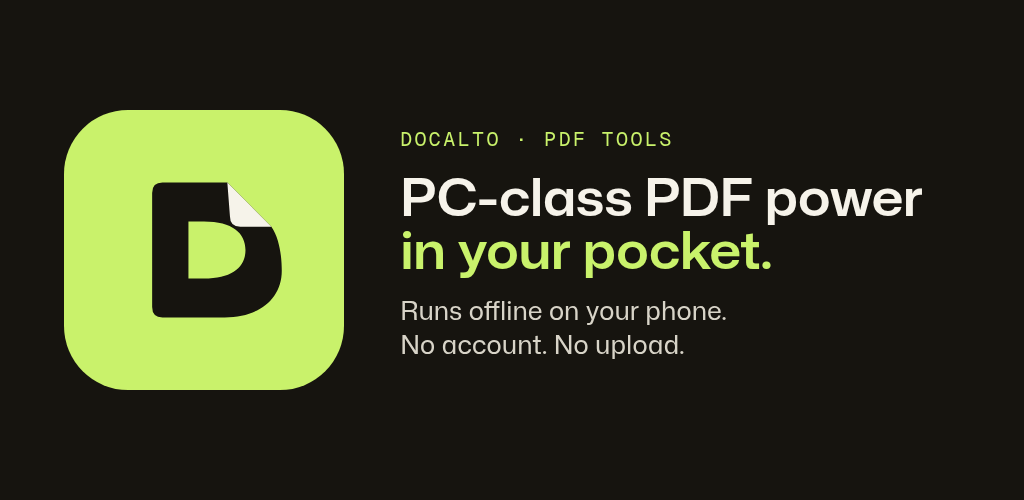
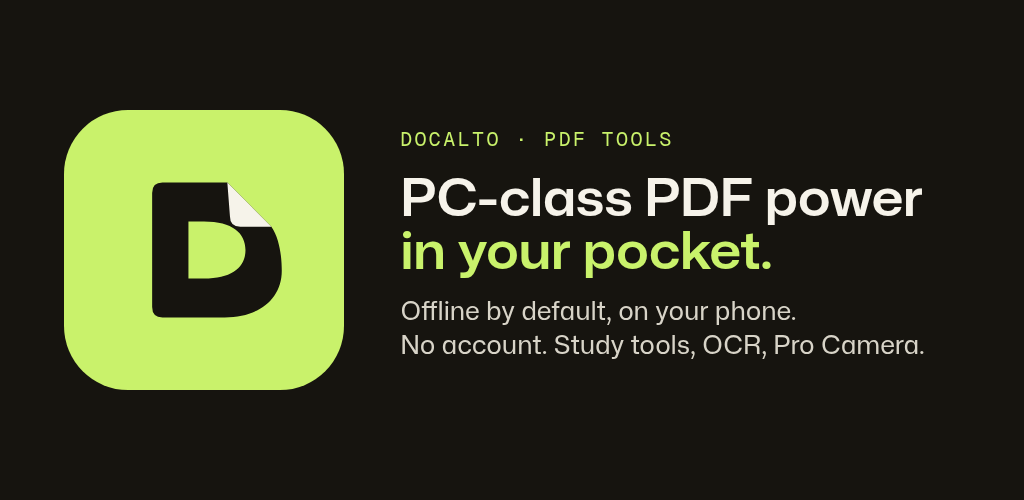
Docalto 2.1.0: release notes, changelog, README with online and AI section, new screenshots

Changed region(s): [[0.375, 0.6, 0.9062, 0.72]]

diff --git a/README.md b/README.md
@@ -5,7 +5,7 @@
 <h1 align="center">Docalto</h1>
 
 <p align="center">
-  <b>PC-class PDF tools in one Android app. Offline on your phone, no account, no upload.</b><br>
+  <b>PC-class PDF tools in one Android app. Offline on your phone by default, no account.</b><br>
   Read, edit, sign, scan, compress and convert PDFs and Office files. By <a href="https://github.com/1tordroid">Tordroid</a>.
 </p>
 
@@ -31,13 +31,13 @@
   <img src="assets/feature-graphic.png" width="820" alt="Docalto feature graphic">
 </p>
 
-Docalto puts your everyday document jobs in one fast app: read, edit, sign, scan, compress, merge, split and convert PDFs, and open Word, Excel and PowerPoint files too. Your documents are handled on your phone, not uploaded. There is no account. Most tools are free; a few use one short ad, and Premium removes the ads and the daily limit. While Docalto is in testing, PRO tools are free to use.
+Docalto puts your everyday document jobs in one fast app: read, edit, sign, scan, compress, merge, split and convert PDFs, and open Word, Excel and PowerPoint files too. Your documents are handled on your phone and not uploaded unless you turn on an online feature. There is no account. Most tools are free; a few use one short ad, and Premium removes the ads and the daily limit. While Docalto is in testing, PRO tools are free to use.
 
 > This repository holds Docalto's release notes, changelog and screenshots. It has **no source code and no APK**. Docalto is available only from Google Play.
 
 ## Why Docalto
 
-**PC-class PDF tools in one Android app, running offline on the phone with no account and no upload, which very few apps offer.**
+**PC-class PDF tools in one Android app, running offline on the phone by default with no account, which very few apps offer.**
 
 Many PDF websites upload your file to merge, split, compress or convert it. Many desktop programs already do those jobs offline on a computer. Docalto runs that kind of toolkit on an Android phone, on the device.
 
@@ -46,8 +46,26 @@ Many PDF websites upload your file to merge, split, compress or convert it. Many
 - **File Rescue** and a wide image-format list (RAW previews, Photoshop, JPEG XL, TIFF and older formats).
 - **Offline signature checks** against India's CCA roots, including many Aadhaar PDFs.
 - **On-device AI:** Gemini Nano summaries and answers when the model is on the phone, with a built-in fallback on every other phone.
+- **New in 2.1.0:** Study tools (flashcards, quiz and outline from a PDF), text reading for 11 more languages such as Arabic, Urdu, Bengali, Tamil, Telugu and Russian, and a Pro Camera with Macro and Night.
+
+### Online and AI, honestly
+
+- **Offline:** every tool, text reading, summaries (Gemini Nano, or key sentences on other phones), Ask this PDF, Study tools and signatures.
+- **With your own AI key** (Gemini, Grok, Claude or ChatGPT) and online turned on: chat with PDF, online summary, rewrite, translation and page text reading. Docalto asks before the first use.
+- **Coming soon** (needs a Docalto server): exact Office layout, sign by link, review by link, and online AI without your own key.
 
 Full, sourced comparison (as of November 2026): [COMPARISON.md](COMPARISON.md). Docalto has no iOS or desktop app and no cloud sync, and it does not replace a desktop suite like PDF24 Creator or a self-hosted Stirling PDF.
+
+## New in 2.1.0
+
+- **Seven colour themes**, and **Recent** at the bottom of Home with View more. Settings is one tap away on every tab.
+- **Study tools:** flashcards, a quiz and an outline made on the phone from a PDF.
+- **Text reading for 11 more languages**, including Arabic, Urdu, Bengali, Tamil, Telugu and Russian, after a one-time download.
+- **Pro Camera** with Macro, Night and adjustable corners.
+- **Measure, Reading view, fillable forms, Pictures in PDF, Web page to PDF**, a visual Compare report and review file (XFDF) import.
+- **PDF to Word, Excel and PowerPoint** export every page.
+- Root or hook frameworks on the phone no longer stop the app; only tampering with Docalto does.
+- What's new and Why Docalto in all 15 app languages.
 
 ## New in 2.0.1
 
@@ -103,6 +121,26 @@ All versions: [CHANGELOG.md](CHANGELOG.md) · [Releases](https://github.com/1tor
 
 ## Screenshots
 
+Docalto 2.1.0
+
+<p align="center">
+  <img src="assets/screenshots/2.1.0/home.png" width="200" alt="Home">
+  <img src="assets/screenshots/2.1.0/recent.png" width="200" alt="Recent files at the bottom of Home, with View more">
+  <img src="assets/screenshots/2.1.0/study.png" width="200" alt="Study tools: flashcards">
+  <img src="assets/screenshots/2.1.0/ocr.png" width="200" alt="Text reading in more scripts">
+</p>
+
+<p align="center">
+  <img src="assets/screenshots/2.1.0/camera.png" width="200" alt="Pro Camera with Macro and Night">
+  <img src="assets/screenshots/2.1.0/themes.png" width="200" alt="Colour themes">
+  <img src="assets/screenshots/2.1.0/why.png" width="200" alt="Why choose Docalto">
+  <img src="assets/screenshots/2.1.0/why-ai.png" width="200" alt="Online and AI, honestly">
+  <img src="assets/screenshots/2.1.0/whatsnew.png" width="200" alt="What's new in 2.1.0">
+</p>
+
+<details>
+<summary>Docalto 2.0.1 screenshots</summary>
+
 Light theme
 
 <p align="center">
@@ -134,9 +172,13 @@ Light theme
 
 <sub>Screenshots of Docalto 2.0.1 from Google Play, taken on a OnePlus 12: Home, Scan, the next steps after a scan, Edit PDF, the QR link prompt, All Tools, What's new, Settings and About.</sub>
 
+</details>
+
+<sub>2.1.0 screenshots were taken on a OnePlus 12. The Pro Camera picture is the app's camera screen drawn over a sample invoice.</sub>
+
 ## Get Docalto
 
-Docalto **2.0.1** is in **closed testing on Google Play** and will be open to everyone soon. It is distributed only through Google Play; there is no APK download.
+Docalto **2.1.0** is in **internal and closed testing on Google Play** and will be open to everyone soon. It is distributed only through Google Play; there is no APK download.
 
 ### Join testing
 
@@ -147,7 +189,7 @@ Requires Android 8.0 or later.
 
 ## Privacy
 
-Viewing, editing, converting, scanning, OCR and translation run on the device. Docalto never uploads, shares or collects your documents, and there is no account. The free version shows Google AdMob ads, which may collect device data; Premium has no ads. Full details: [privacy policy](https://docalto.tordroid.com/privacy/) · [terms](https://docalto.tordroid.com/terms/) · [SECURITY.md](SECURITY.md).
+Viewing, editing, converting, scanning, OCR and translation run on the device. Docalto does not upload, share or collect your documents unless you turn on an online feature and agree, and there is no account. The free version shows Google AdMob ads, which may collect device data; Premium has no ads. Full details: [privacy policy](https://docalto.tordroid.com/privacy/) · [terms](https://docalto.tordroid.com/terms/) · [SECURITY.md](SECURITY.md).
 
 ## Support
 

diff --git a/CHANGELOG.md b/CHANGELOG.md
@@ -1,6 +1,30 @@
 # Changelog
 
-All user-facing changes to Docalto, newest first. Docalto is in closed testing on Google Play. Per-version notes are in [release-notes/](release-notes/) and on the [Releases](https://github.com/1tordroid/Docalto-Releases/releases) page. The changelog is also on the website: https://docalto.tordroid.com/changelog/
+All user-facing changes to Docalto, newest first. Docalto is in testing on Google Play. Per-version notes are in [release-notes/](release-notes/) and on the [Releases](https://github.com/1tordroid/Docalto-Releases/releases) page. The changelog is also on the website: https://docalto.tordroid.com/changelog/
+
+## 2.1.0
+
+versionCode 12. Released 24 November 2026 to internal and closed testing on Google Play.
+
+### What's new
+
+- **Seven colour themes:** Lime, Ocean, Rose, Amber, Violet, Mint and Coral, in Settings next to the app icon.
+- **Recent on Home:** your last 3 files at the bottom of Home, with View more. Settings is one tap away on every tab.
+- **Study tools:** flashcards, a quiz and an outline map made on the phone from a PDF's own text, with Save study notes.
+- **More reading scripts:** text reading for Arabic, Urdu, Bengali, Tamil, Telugu, Gujarati, Punjabi, Kannada, Malayalam, Odia and Russian. Each is a one-time download after you agree, then works offline.
+- **Pro Camera:** Macro, Night and adjustable corners, plus Scanner Enhance.
+- **New tools:** Measure (distance, area and perimeter at a drawing scale), Reading view, Make a fillable form, Pictures in PDF, Web page to PDF, a visual change report in Compare, and review file (XFDF) import.
+- **Office export:** PDF to Word, Excel and PowerPoint now export every page.
+- **Fewer false blocks:** root, LSPosed or Xposed on the phone no longer stop the app; only tampering with Docalto itself does.
+- **Your language:** What's new shows translated highlights in all 15 app languages, and Why Docalto has new rows and an online and AI section in every language.
+
+### Online and AI, honestly
+
+- **Offline:** every tool, text reading, summaries (Gemini Nano on phones that have it, key sentences on others), Ask this PDF, Study tools and signatures.
+- **With your own AI key** (Gemini, Grok, Claude or ChatGPT) and online turned on: chat with PDF, online summary, rewrite, translation and page text reading. Docalto asks before the first use; the key is encrypted on the phone and never backed up.
+- **Coming soon** (needs a Docalto server): exact Office layout, sign by link, review by link, and online AI without your own key. These are marked Coming soon in the app and do nothing online.
+
+Full list: https://docalto.tordroid.com/changelog/#v2-1-0
 
 ## 2.0.1
 

diff --git a/release-notes/v2.1.0.md b/release-notes/v2.1.0.md
@@ -1,0 +1,23 @@
+# Docalto 2.1.0
+
+versionCode 12. Released 24 November 2026 to internal and closed testing on Google Play.
+
+## What's new
+
+- **Seven colour themes:** Lime, Ocean, Rose, Amber, Violet, Mint and Coral, in Settings next to the app icon.
+- **Recent on Home:** your last 3 files at the bottom of Home, with View more. Settings is one tap away on every tab.
+- **Study tools:** flashcards, a quiz and an outline map made on the phone from a PDF's own text, with Save study notes.
+- **More reading scripts:** text reading for Arabic, Urdu, Bengali, Tamil, Telugu, Gujarati, Punjabi, Kannada, Malayalam, Odia and Russian. Each is a one-time download after you agree, then works offline.
+- **Pro Camera:** Macro, Night and adjustable corners, plus Scanner Enhance.
+- **New tools:** Measure (distance, area and perimeter at a drawing scale), Reading view, Make a fillable form, Pictures in PDF, Web page to PDF, a visual change report in Compare, and review file (XFDF) import.
+- **Office export:** PDF to Word, Excel and PowerPoint now export every page.
+- **Fewer false blocks:** root, LSPosed or Xposed on the phone no longer stop the app; only tampering with Docalto itself does.
+- **Your language:** What's new shows translated highlights in all 15 app languages, and Why Docalto has new rows and an online and AI section in every language.
+
+## Online and AI, honestly
+
+- **Offline:** every tool, text reading, summaries (Gemini Nano on phones that have it, key sentences on others), Ask this PDF, Study tools and signatures.
+- **With your own AI key** (Gemini, Grok, Claude or ChatGPT) and online turned on: chat with PDF, online summary, rewrite, translation and page text reading. Docalto asks before the first use; the key is encrypted on the phone and never backed up.
+- **Coming soon** (needs a Docalto server): exact Office layout, sign by link, review by link, and online AI without your own key. These are marked Coming soon in the app and do nothing online.
+
+Full list: https://docalto.tordroid.com/changelog/#v2-1-0
